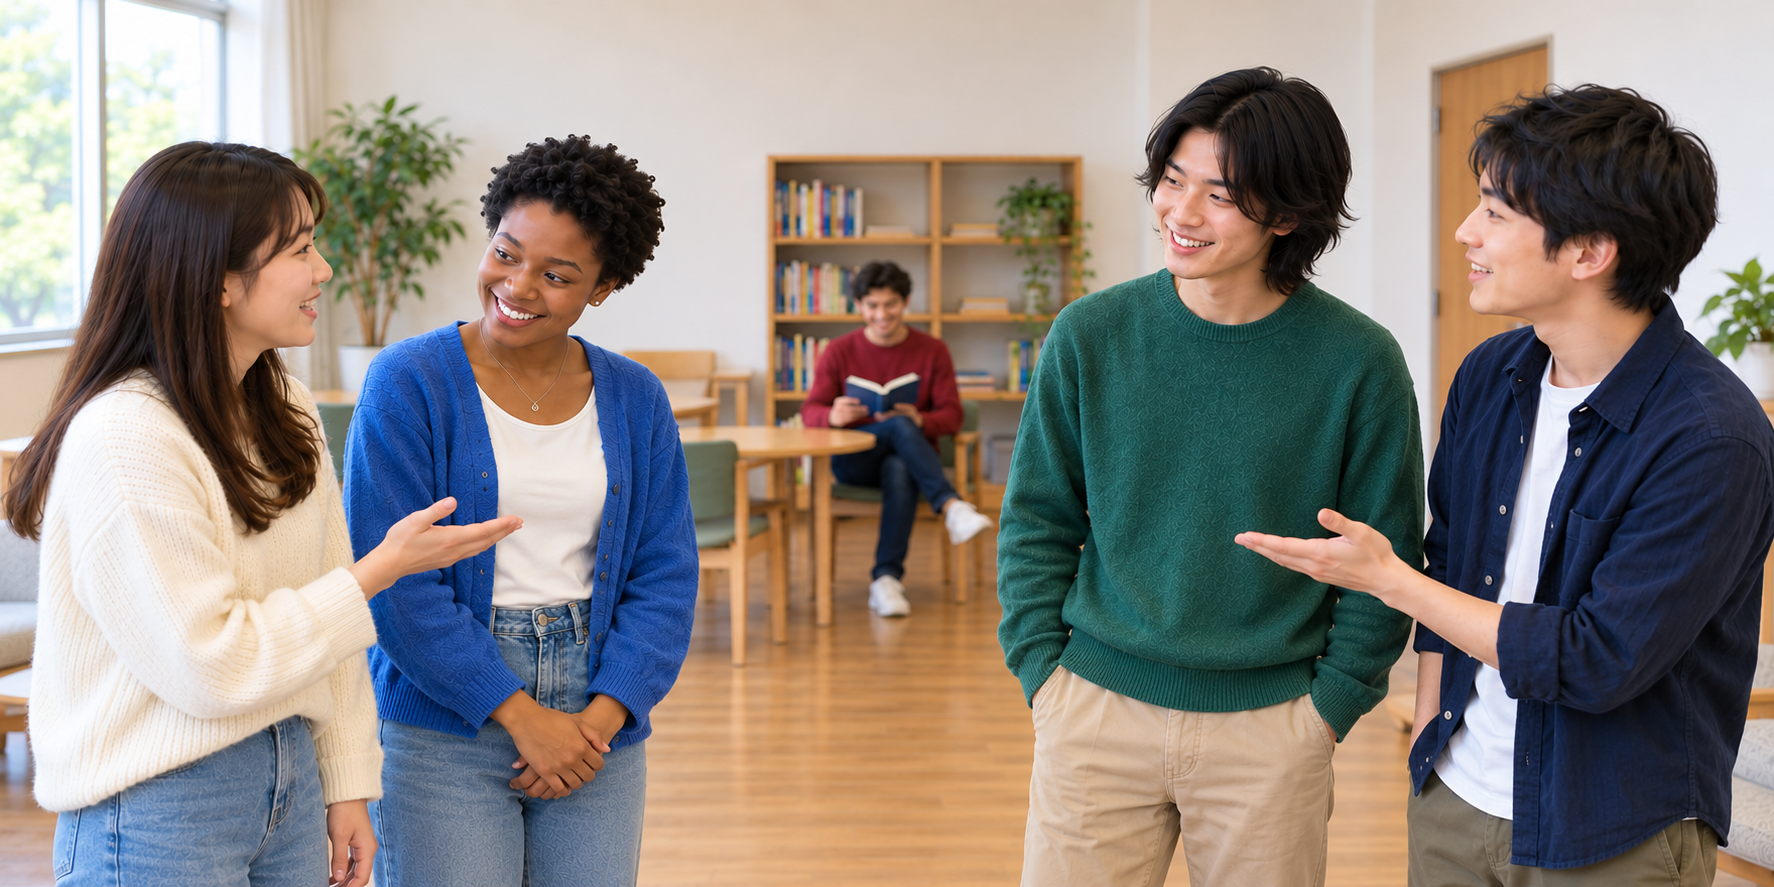
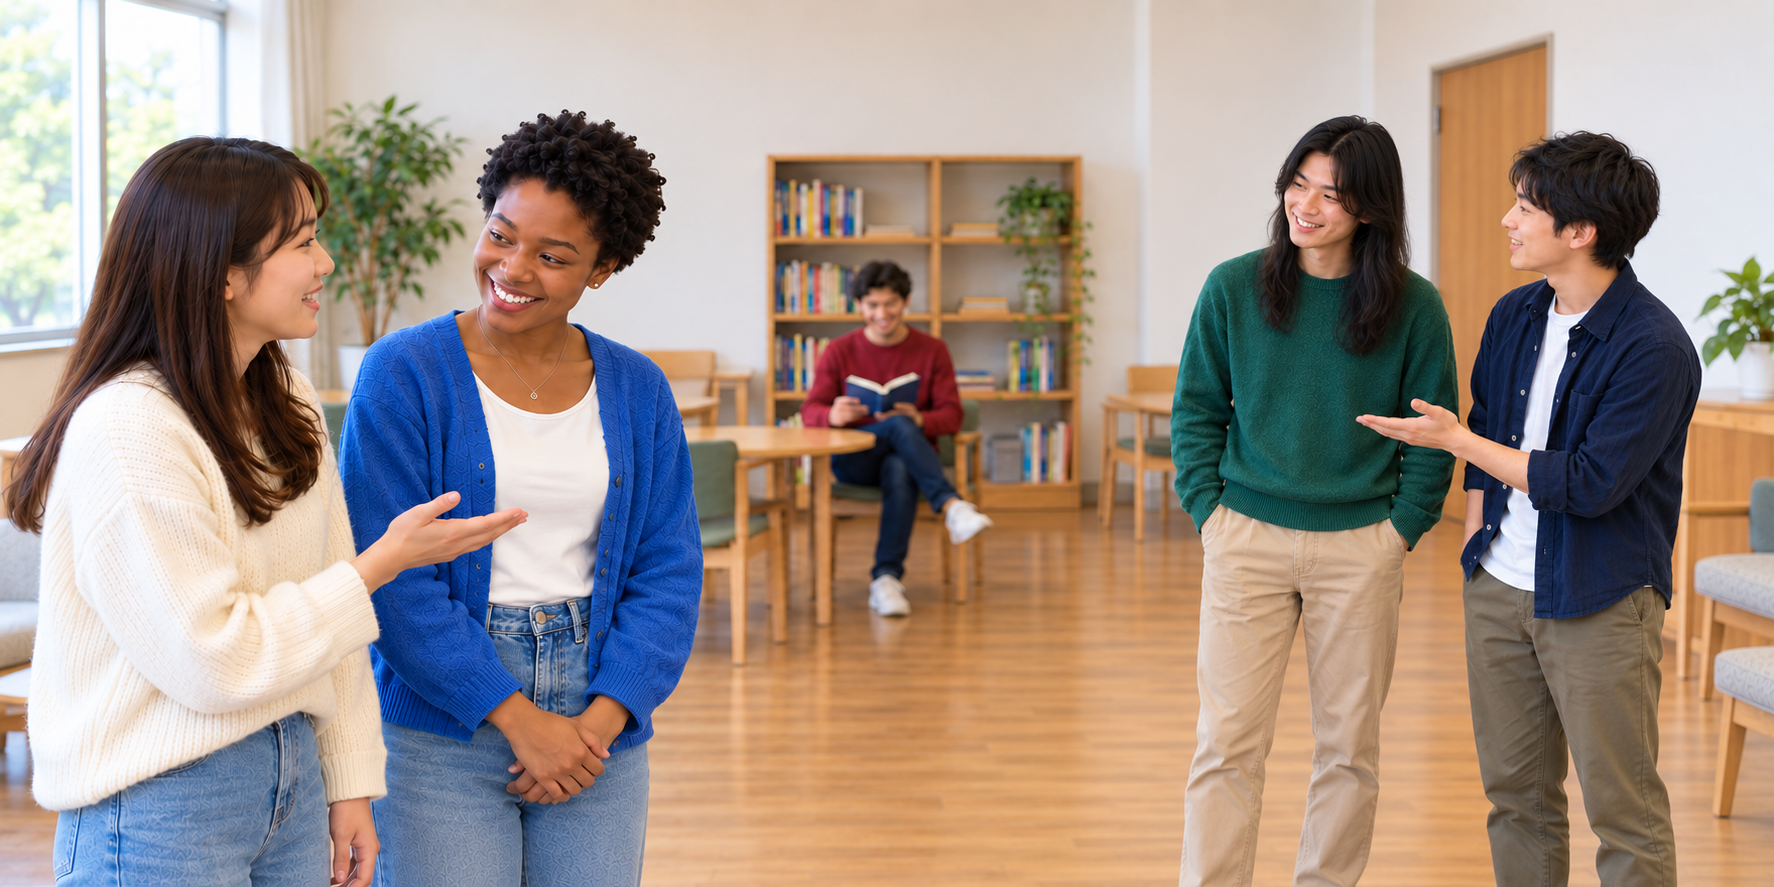
Separate the introduction pairs and lengthen Takeshi hair

diff --git a/practice2-next.js b/practice2-next.js
@@ -1290,7 +1290,7 @@ function practice2ShowNotice(resultSpan, message) {
         const stage=node('div','p2x-stage');
         const image=node('img','p2x-photo');
         image.src=!is22?'assets/practice23-floors.png':people?'assets/practice22-people.png':hats?(photoKind?`assets/practice22-${photoKind}.png`:'assets/practice22-hats.png'):'assets/practice22-shelves.png';
-        image.alt=!is22?'Three comic panels: A is on the first floor at the bank, B on the second floor at the cafe, and neither is on the third floor at the library.':people?'A and Mary stand together on the left; Takeshi and B stand together on the right, introducing their friends. Robert sits at the back reading a book, far from both pairs.':hats?'Rear view of A on the left and B on the right, with a baseball cap near A, a sun hat near B, and a fedora on the upper central shelf.':'A stands on the left beside a nearby shelf, B stands on the right beside another nearby shelf, and a third shelf is far from both at the back of the shop.';
+        image.alt=!is22?'Three comic panels: A is on the first floor at the bank, B on the second floor at the cafe, and neither is on the third floor at the library.':people?'A and Mary stand close together in the left foreground. Takeshi, with hair past his shoulders, and B stand together farther back on the right, with a clear gap between the pairs. Robert sits at the back reading a book, far from both pairs.':hats?'Rear view of A on the left and B on the right, with a baseball cap near A, a sun hat near B, and a fedora on the upper central shelf.':'A stands on the left beside a nearby shelf, B stands on the right beside another nearby shelf, and a third shelf is far from both at the back of the shop.';
         if(photoKind)image.alt=`A stands on the left and B on the right, seen from behind. ${photoKind==='fruit'?'Apples, bananas, and mandarins':photoKind==='onigiri'?'Three groups of two rice balls':photoKind==='bento'?'Three groups of two boxed lunches':photoKind==='bag'?'Three differently shaped bags':'Three differently shaped clocks and watches'}: one near A, one near B, and one on the upper shelf far from both.`;
         image.width=shop?1774:is22?1536:2172;image.height=shop?887:is22?1024:724;stage.append(image);
         if(is22&&example&&!people) {
@@ -1315,7 +1315,7 @@ function practice2ShowNotice(resultSpan, message) {
         }
         const audioGrid=node('div','p2x-audio-grid');
         for(const [i,o] of objects.entries()) {
-            const position=hats?shopGeometry.centers[['A','B','far'].indexOf(o.zone)]:!is22?{A:[20,84],B:[51,84],far:[84,76]}[o.zone]:people?{A:[29,56],B:[69,56],far:[50,52]}[o.zone]:{A:[25,52],B:[73,53],far:[50,23.5]}[o.zone];
+            const position=hats?shopGeometry.centers[['A','B','far'].indexOf(o.zone)]:!is22?{A:[20,84],B:[51,84],far:[84,76]}[o.zone]:people?{A:[29,56],B:[74,56],far:[50,52]}[o.zone]:{A:[25,52],B:[73,53],far:[50,23.5]}[o.zone];
             const target=node('div',people?'p2x-person-target':'p2x-object');target.dataset.zone=o.zone;target.dataset.kind=o.kind;target.dataset.color=o.colorName||'';
             target.style.left=position[0]+'%';target.style.top=position[1]+'%';
             if(photoKind==='clock'){target.style.width=(o.zone==='A'?11:10)+'%';target.style.aspectRatio=o.zone==='B'?'1.8':'1';}

diff --git a/docs/HANDOVER.md b/docs/HANDOVER.md
@@ -3,6 +3,7 @@
 最終更新日：2026-10-29
 
 ## 現在のリレー状態（2026-10-29／Europe/Vienna）
+- 今回開始main b04fcc4/work、同期クリーン確認。2.2人物写真のペア間隔を拡大、A/メアリーは左手前、B/たけしは右少し奥、たけしの髪は肩より長く。ロバートはさらに奥で座位読書維持。たけし対象の名前/ホバー/強調位置を画像に合わせ右へ。モデル/判定/役割変更なし。仕様更新、2.2自動407件・構文/差分チェックPASS、375〜1440pxラベル検査と600/1440pxプレビュー確認。公開反映/ユーザー実機未確認。
 - 今回開始main 1fe83e1/work、同期クリーン確認。2.2人物画像を手前4人立位・友人紹介、奥ロバート座位読書へ変更。A/メアリー左、たけし/B右。A/B印は下側外縁の体付近、人物名/ホバー/強調枠を新位置へ同期。モデル/判定/役割・2:1維持。仕様更新、2.2自動407件・構文/差分チェックPASS。375〜1440pxラベル検査、600/1440pxプレビュー確認。公開反映/ユーザー実機未確認。
 - 今回開始main b9bf6b3/work、同期クリーン確認。2.2 D3人物写真を座位へ：Aとメアリー左ソファ/Bとたけし右ソファ、ロバート奥中央立位維持。左右対象枠をy64%/height66%へ、名前/ホバー/強調を人物に合わせる。モデル/役割/判定変更なし。仕様更新、2.2自動407件・構文/差分チェックPASS。375〜1440pxラベル検査と600/1440pxプレビュー確認。公開反映/ユーザー実機未確認。
 - 今回開始main be221fd/work、同期クリーン確認。ユーザー確認D3に人物セット追加。おにぎり/おべんとう/この人はだれ、人物ではA asks/B asks各3会話。旧最下部Under reviewを統合、名前短答モデルと返答者視点全文の許容/旧キー維持。生成写真を既存people画像へ差替え（A側黒人短髪メアリー/B側長髪たけし/奥メキシコ系ロバート）、2:1/顔下名前へ。共通sceneはpeople時だけ配置調整、2.3には影響なし。2.2自動407件/余白52件PASS、375〜1440pxラベル検査、600/1440px画像確認。どれ/だれの既存補足もExample内へ移設。仕様/語彙監査更新、構文/差分チェックPASS。公開反映/ユーザー実機未確認。

diff --git a/docs/PRACTICE22_23_SPEC.md b/docs/PRACTICE22_23_SPEC.md
@@ -43,7 +43,7 @@
 ### D3の人物セット：この人はだれですか
 
 - D3の第三セット「この人はだれ」を選ぶと、人物Example3→Drill 3見出し→題材切替→A asks/B asks→人物写真→3組のQuestion/Responseを表示する。おにぎり/おべんとうの既存課題は維持。旧peopleContainerとUnder review表示は撤去。
-- 写真は横長2:1、Aは手前左、Bは手前右。手前に左からA・黒人女性メアリー（ショートヘア・青いカーディガン）・日本人男性たけし（長めの黒髪・緑のセーター）・Bが立ち、Aがメアリー、Bがたけしを紹介する雰囲気。左右のペアを離し、奥中央のメキシコ系男性ロバート（赤いセーター）は座って読書している。名前はHTMLで顔より下に表示。対象ホバー/再生・録音時の強調とExampleのWho案内を継承し、DrillにはWhoを出さない。
+- 写真は横長2:1、左手前にはA・黒人女性メアリー（ショートヘア・青いカーディガン）、右の少し奥には日本人男性たけし（肩より長い黒髪・緑のセーター）・Bが立つ。2つのペアの間に広い空間を残し、Aがメアリー、Bがたけしを紹介する雰囲気。左右のペアを離し、奥中央のメキシコ系男性ロバート（赤いセーター）は座って読書している。名前はHTMLで顔より下に表示。対象ホバー/再生・録音時の強調とExampleのWho案内を継承し、DrillにはWhoを出さない。
 - Example内の既存補足「どれ = which one? · だれ = who?」も維持する。
 - A asks：この人→メアリー、その人→たけし、あの人→ロバート。B asks：その人→メアリー、この人→たけし、あの人→ロバート。各3会話、番号1〜3、計6組。
 - 質問モデルはこの/その/あの人はだれですか、返答モデルはメアリーさんです/たけしさんです/ロバートさんです。名前だけの短答や、返答者視点の正しい指示語＋人は＋名前（さん）も許容。誤った人物名/指示語は不可。同じ人物の視点交代なので「も」へ変えない。

diff --git a/docs/UI_LAYOUT_SPEC.md b/docs/UI_LAYOUT_SPEC.md
@@ -410,3 +410,5 @@ L1・L2ページはHiragana初期表示。練習2のWith漢字は参考漢字表
 - 2026-10-29：2.2 D3人物画像はAとメアリーが左ソファ、Bとたけしが右ソファへ隣り合って座る構図に修正。ロバートは奥中央を維持。左右人物のホバー/強調枠は座位へ下げて高さを調整、2:1/名前の顔下配置を維持。
 
 - 2026-10-29：2.2 D3人物画像を手前4人の立位紹介場面に変更。左A/メアリー、右たけし/B、奥ロバートは座って読書。A/B印は手前外側の体付近へ、顔を避ける。人物のホバー/強調枠・名前を新構図へ同期、2:1と既定の写真幅を維持。
+
+- 2026-10-29：2.2人物画像はA/メアリーを左手前、B/たけしを右の少し奥へ置き、ペア同士の間隔を拡大。たけしは肩より長い髪、画像の対象位置に合わせ人物名/ホバー/強調枠を右へ調整。ロバートはさらに奥の座位読書を維持。
